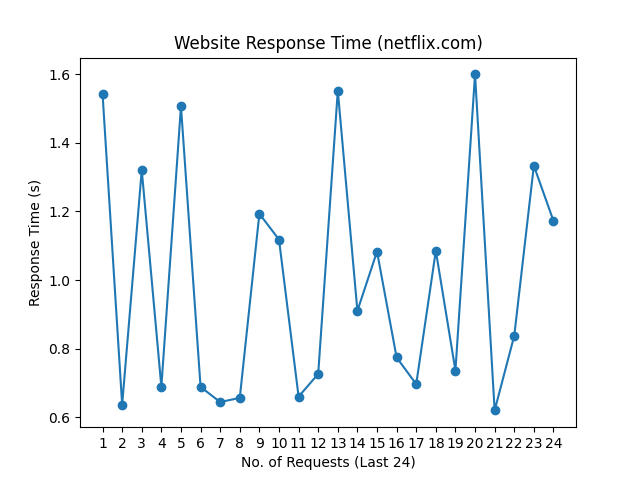
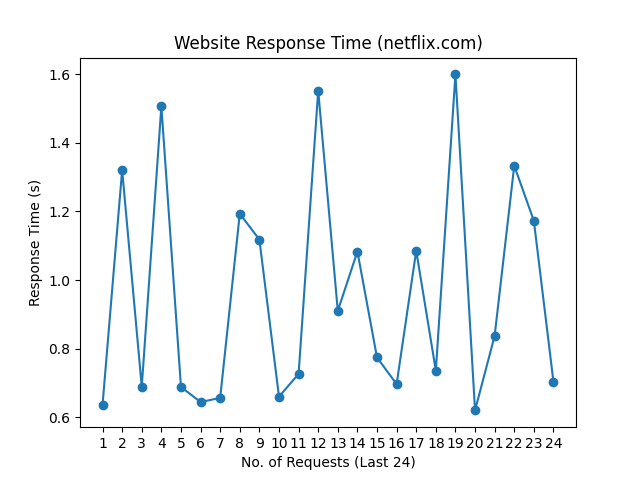
update README.md, history and graph

Changed region(s): [[0.1562, 0.125, 0.875, 0.875]]

diff --git a/README.md b/README.md
@@ -1,10 +1,10 @@
 # Web Monitoring
 
-Last Checked: 22/03/2025 08:20
+Last Checked: 23/03/2025 08:23
 
 | Website | Response Time (s) | Status | Avg Uptime (%) |
 |---------|-------------------|--------|----------------|
 | www.thiswebsiteisdown.net | 0 <br> <img src="graph/thiswebsiteisdown.net.png" alt="Graph" width="200" height="200">  | ❌ Down | 0.00 |
-| www.netflix.com | 1.172689 <br> <img src="graph/netflix.com.png" alt="Graph" width="200" height="200">  | ✅ Up | 99.83 |
-| www.google.com | 0.334867 <br> <img src="graph/google.com.png" alt="Graph" width="200" height="200">  | ✅ Up | 100.00 |
-| www.facebook.com | 0.264265 <br> <img src="graph/facebook.com.png" alt="Graph" width="200" height="200">  | ✅ Up | 100.00 |
+| www.netflix.com | 0.703351 <br> <img src="graph/netflix.com.png" alt="Graph" width="200" height="200">  | ✅ Up | 99.83 |
+| www.google.com | 0.090457 <br> <img src="graph/google.com.png" alt="Graph" width="200" height="200">  | ✅ Up | 100.00 |
+| www.facebook.com | 0.633532 <br> <img src="graph/facebook.com.png" alt="Graph" width="200" height="200">  | ✅ Up | 100.00 |
